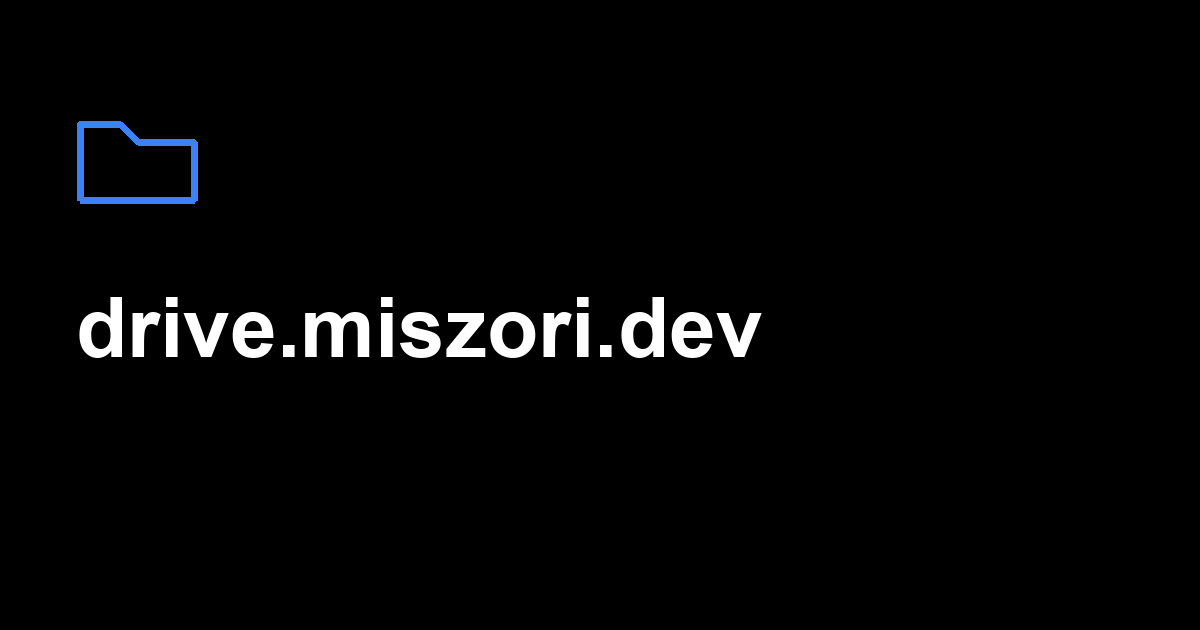
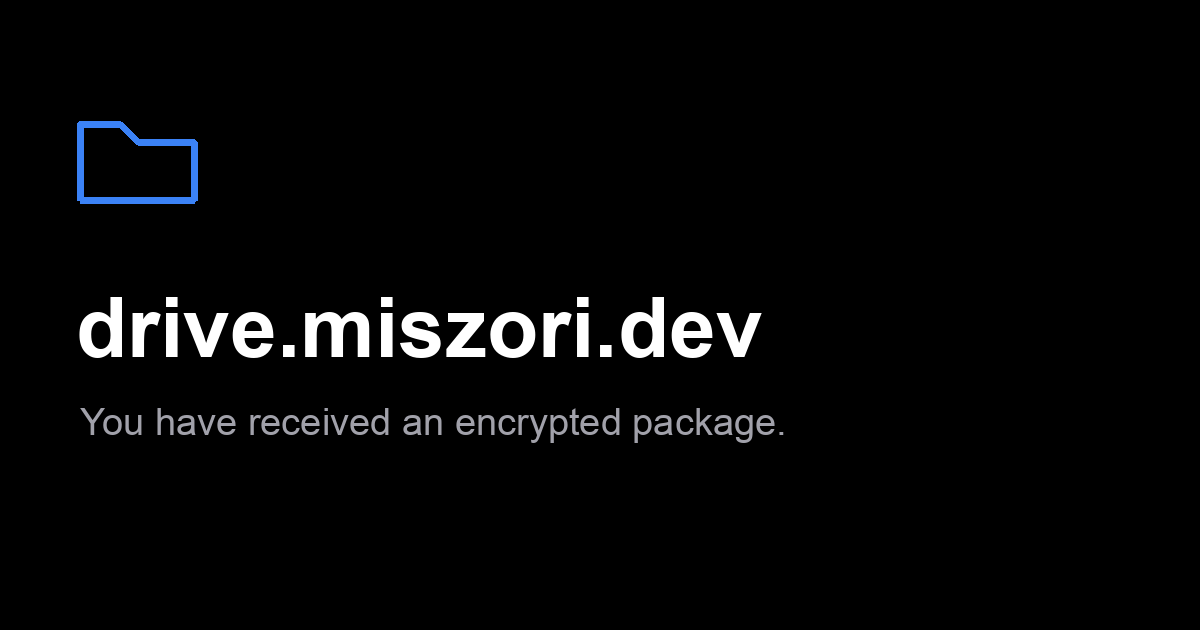
feat: restore preview message and add semantic status colors
Restore the generic encrypted-package receipt message in the share artwork and version its URL for fresh previews. Add accessible green Ready and red Unavailable states plus red one-time-download warnings, while keeping black surfaces and blue controls.

Shorten the missing-key message and cover color transitions, expiry, warning styles, preview metadata, and copy with regression tests.

Changed region(s): [[0.0617, 0.6333, 0.6475, 0.6937]]

diff --git a/web/public.js b/web/public.js
@@ -26,6 +26,13 @@ function updateButton() {
   $('download-button').disabled = !available || busy || !$('download-consent').checked;
 }
 
+function packageState(label) {
+  const element = $('package-state');
+  element.textContent = label;
+  element.classList.toggle('status-ready', label === 'Ready');
+  element.classList.toggle('status-unavailable', label === 'Unavailable');
+}
+
 function progress(bytes, total) {
   const percent = total ? Math.floor(bytes / total * 100) : 100;
   $('download-meter').value = percent;
@@ -60,6 +67,7 @@ async function download() {
   if (!available || busy || !$('download-consent').checked) return;
   if (Date.now() >= expiresAt) {
     available = false;
+    packageState('Unavailable');
     updateButton();
     status('This package has expired. Ask the sender for a new link.', true);
     return;
@@ -110,6 +118,7 @@ async function download() {
       : 'Keep this tab open. Starting this transfer cannot be undone.');
     consumed = true;
     available = false;
+    packageState('Downloading');
     const response = await fetch(`/api/packages/${encodeURIComponent(id)}/consume`, {
       method: 'POST', signal: controller.signal, credentials: 'omit', cache: 'no-store', referrerPolicy: 'no-referrer'
     });
@@ -147,7 +156,7 @@ async function download() {
     await archive.close();
     progress(bytes, bytes);
     $('download-stage').textContent = 'Decrypted & saved';
-    $('package-state').textContent = 'Downloaded';
+    packageState('Downloaded');
     $('package-title').textContent = 'Package downloaded';
     $('package-description').textContent = 'Your files are in the ZIP archive. The server copy has been destroyed.';
     $('availability').textContent = 'Claimed — no longer on the server';
@@ -163,7 +172,7 @@ async function download() {
       ? `${aborted ? 'Transfer cancelled.' : error.message} This transfer cannot be resumed. Ask the sender for a new package.`
       : aborted ? 'Save cancelled. Your package has not been claimed.' : `Could not prepare a save destination. ${error.message} Your package has not been claimed.`, !aborted || consumed);
     if (consumed) {
-      $('package-state').textContent = 'Unavailable';
+      packageState('Unavailable');
       $('availability').textContent = 'Claimed or unavailable';
       $('download-stage').textContent = 'Transfer stopped — not recoverable';
       keyBytes?.fill(0);
@@ -197,7 +206,7 @@ async function initialize() {
   $('package-card').hidden = false;
   blobFallbackOffered = !supportsLocalStreaming;
   $('fallback-warning').hidden = supportsStreaming || supportsLocalStreaming;
-  $('package-state').textContent = 'Checking';
+  packageState('Checking');
   $('package-title').textContent = 'Download package';
   $('package-description').textContent = 'Checking availability. Opening this page does not start a download.';
   $('availability').textContent = 'Checking…';
@@ -223,7 +232,7 @@ async function initialize() {
     expiresAt = Date.parse(info.expiresAt);
     if (info.status !== 'ready' || !Number.isFinite(expiresAt) || expiresAt <= Date.now()) throw new Error('This package is not available. Ask the sender for a new link.');
     available = true;
-    $('package-state').textContent = 'Ready';
+    packageState('Ready');
     $('availability').textContent = `Until ${new Date(expiresAt).toLocaleString()}`;
     $('package-description').textContent = 'Ready to download. File names and sizes are encrypted until you start.';
     status('Nothing is downloaded or destroyed until you press the button.');
@@ -232,7 +241,7 @@ async function initialize() {
     fragment = '';
     keyBytes?.fill(0);
     keyBytes = null;
-    $('package-state').textContent = 'Unavailable';
+    packageState('Unavailable');
     $('package-title').textContent = 'Package unavailable';
     $('package-description').textContent = 'Checking availability does not start a download.';
     $('availability').textContent = 'Unavailable';

diff --git a/web/index.html b/web/index.html
@@ -12,16 +12,16 @@
   <meta property="og:site_name" content="drive.miszori.dev">
   <meta property="og:title" content="drive.miszori.dev">
   <meta property="og:description" content="">
-  <meta property="og:image" content='{{env "PUBLIC_ORIGIN"}}/share-preview.png?v=2'>
+  <meta property="og:image" content='{{env "PUBLIC_ORIGIN"}}/share-preview.png?v=3'>
   <meta property="og:image:type" content="image/png">
   <meta property="og:image:width" content="1200">
   <meta property="og:image:height" content="630">
-  <meta property="og:image:alt" content="drive.miszori.dev">
+  <meta property="og:image:alt" content="drive.miszori.dev — You have received an encrypted package.">
   <meta name="twitter:card" content="summary_large_image">
   <meta name="twitter:title" content="drive.miszori.dev">
   <meta name="twitter:description" content="">
-  <meta name="twitter:image" content='{{env "PUBLIC_ORIGIN"}}/share-preview.png?v=2'>
-  <meta name="twitter:image:alt" content="drive.miszori.dev">
+  <meta name="twitter:image" content='{{env "PUBLIC_ORIGIN"}}/share-preview.png?v=3'>
+  <meta name="twitter:image:alt" content="drive.miszori.dev — You have received an encrypted package.">
   <link rel="stylesheet" href="/styles.css">
   <script type="module" src="/public.js"></script>
 </head>
@@ -38,7 +38,7 @@
         <div class="panel-heading"><h1 id="package-title">Download package</h1><span id="package-state" class="package-state">Checking</span></div>
         <p id="package-description">Checking availability. Opening this page does not start a download.</p>
         <dl class="package-facts"><div><dt>Available</dt><dd id="availability">Checking…</dd></div><div><dt>Format</dt><dd>ZIP archive</dd></div></dl>
-        <div id="download-warning" class="notice warning"><strong>One-time download</strong><p>Starting the transfer claims and destroys the server copy, even if the download fails or is cancelled. It cannot be resumed; ask the sender for a new package.</p></div>
+        <div id="download-warning" class="notice warning one-time-warning"><strong>One-time download</strong><p>Starting the transfer claims and destroys the server copy, even if the download fails or is cancelled. It cannot be resumed; ask the sender for a new package.</p></div>
         <div id="fallback-warning" class="notice warning" hidden><strong>128 MiB browser limit</strong><p>This browser can save ZIP archives up to 128 MiB, including archive overhead. The encrypted size is unknown until you start and claim the one-time download. A larger package will be lost. For large or unknown sizes, use desktop Chrome or Edge with “Save As” support.</p></div>
         <label id="consent-label" class="check-row"><input id="download-consent" type="checkbox"><span>I understand this download cannot be repeated, even if it fails or I cancel.</span></label>
         <button id="download-button" class="button primary full-width" type="button" disabled>Download and destroy</button>

diff --git a/web/admin.html b/web/admin.html
@@ -39,7 +39,7 @@
         <div class="field-row"><div><label for="ttl">Expires after</label><select id="ttl"><option value="3600">1 hour</option><option value="86400" selected>24 hours</option><option value="259200">3 days</option><option value="604800">7 days</option><option value="2592000">30 days</option><option value="custom">Custom duration</option></select></div><div id="custom-ttl-field" hidden><label for="custom-ttl">Minutes (1–43,200)</label><input id="custom-ttl" type="number" min="1" max="43200" step="1" value="60"></div></div>
         <p class="fine-print">Expiry starts at package creation and includes upload time.</p>
         <div class="field-row"><div><label for="package-name">Package name (optional)</label><input id="package-name" type="text" autocomplete="off" spellcheck="false" disabled><p class="fine-print">Up to 120 characters. Never included in the share link or download.</p></div></div>
-        <div class="notice warning"><p>One-time download: starting a transfer destroys the server copy, even if it fails or is cancelled. Large downloads require browser streaming support; without it, ZIP archives are limited to 128 MiB. Recipients must keep the download tab open.</p></div>
+        <div class="notice warning one-time-warning"><p>One-time download: starting a transfer destroys the server copy, even if it fails or is cancelled. Large downloads require browser streaming support; without it, ZIP archives are limited to 128 MiB. Recipients must keep the download tab open.</p></div>
         <button id="upload-button" class="button primary full-width" type="button" disabled>Encrypt and create link</button>
         <div id="upload-progress" class="progress-area" hidden><div class="progress-copy"><span id="upload-stage">Preparing…</span><span id="upload-percent">0%</span></div><progress id="upload-meter" value="0" max="100" aria-label="Upload progress"></progress><button id="abort-upload" class="text-button danger" type="button">Cancel and delete upload</button></div>
         <p id="upload-status" class="status-message" role="status" aria-live="polite"></p>

diff --git a/web/styles.css b/web/styles.css
@@ -10,9 +10,9 @@
   --blue: #2563eb;
   --blue-hover: #1d4ed8;
   --focus: #93c5fd;
-  --danger: #fff;
+  --danger: #f87171;
   --warning: #aaa;
-  --success: #aaa;
+  --success: #4ade80;
   font-family: -apple-system, BlinkMacSystemFont, "Segoe UI", sans-serif;
   color: var(--text);
   background: var(--background);
@@ -84,6 +84,8 @@ dd { margin: 0; overflow-wrap: anywhere; }
 .notice strong { color: var(--warning); }
 .notice p { margin: 6px 0 0; }
 .notice p:first-child { margin-top: 0; }
+.notice.one-time-warning { border-color: var(--danger); color: var(--danger); }
+.notice.one-time-warning strong { color: var(--danger); }
 .check-row { display: flex; align-items: flex-start; gap: 12px; margin: 20px 0; font-size: 14px; cursor: pointer; }
 .progress-area { margin-top: 20px; }
 .progress-copy { display: flex; justify-content: space-between; gap: 16px; margin-bottom: 8px; font-size: 13px; }
@@ -119,7 +121,7 @@ td { min-width: 100px; }
 .status-ready { color: var(--success); }
 .status-uploading, .status-consuming { color: var(--focus); }
 .status-consumed, .status-expired, .status-deleted, .status-unknown { color: var(--muted); }
-.status-failed { color: var(--danger); }
+.status-failed, .status-unavailable { color: var(--danger); }
 .empty-state { margin-top: 18px; color: var(--muted); }
 .empty-state p { margin-bottom: 0; }
 dialog { width: min(440px, calc(100% - 32px)); max-height: calc(100% - 32px); overflow: auto; padding: 24px; color: var(--text); background: var(--surface); border: 1px solid var(--line); border-radius: 10px; }

diff --git a/web/crypto.js b/web/crypto.js
@@ -10,7 +10,7 @@ export function encodeKey(bytes) {
 }
 
 export function decodeKey(value) {
-  if (!/^[A-Za-z0-9_-]{43}$/.test(value)) throw new Error('This link is missing a valid decryption key. Ask the sender for the complete link.');
+  if (!/^[A-Za-z0-9_-]{43}$/.test(value)) throw new Error('This link is missing a valid decryption key.');
   const bytes = Uint8Array.from(atob(value.replaceAll('-', '+').replaceAll('_', '/') + '='), c => c.charCodeAt(0));
   if (bytes.length !== 32 || encodeKey(bytes) !== value) throw new Error('The link’s decryption key is invalid.');
   return bytes;

diff --git a/tools/generate-preview.py b/tools/generate-preview.py
@@ -19,4 +19,5 @@ draw = ImageDraw.Draw(image)
 blue = "#3b82f6"
 draw.line([(80, 200), (80, 124), (120, 124), (138, 142), (194, 142), (194, 200), (80, 200)], fill=blue, width=7, joint="curve")
 draw.text((76, 280), "drive.miszori.dev", font=font(84, bold=True), fill="#ffffff")
+draw.text((80, 400), "You have received an encrypted package.", font=font(38), fill="#a1a1aa")
 image.save(Path(__file__).resolve().parents[1] / "web" / "share-preview.png", optimize=True)

diff --git a/README.md b/README.md
@@ -1,6 +1,6 @@
 # drive.miszori.dev
 
-Private, client-encrypted, one-time file packages. Both pages use a minimal black interface with blue accents, branded `drive.miszori.dev`. Docker runs a small Go API and Caddy; the browser encrypts/decrypts with WebCrypto. No JavaScript frameworks, third-party scripts, analytics, database service, or build step for the web pages.
+Private, client-encrypted, one-time file packages. Both pages use a minimal black interface with blue controls, green Ready states, and red Unavailable/destructive-download warnings, branded `drive.miszori.dev`. Docker runs a small Go API and Caddy; the browser encrypts/decrypts with WebCrypto. No JavaScript frameworks, third-party scripts, analytics, database service, or build step for the web pages.
 
 ## What it does
 
@@ -90,7 +90,7 @@ Browser and device details are inferred **only when a package is explicitly clai
 
 ### Messaging previews
 
-Public package HTML contains server-rendered Open Graph and Twitter-card metadata with only the generic title and a 1200×630 image. Description fields are empty, and the image contains only the folder icon/title—no subtitle or divider. A versioned image URL avoids reusing the previous artwork in newly fetched cards. Cards never include names, filenames, keys, package contents, recipient audit details, or even package-specific availability. Preview bots fetch only public HTML/image; those requests cannot consume the package. An explicit recipient download is still required.
+Public package HTML contains server-rendered Open Graph and Twitter-card metadata with only the generic title and a 1200×630 image. Description fields are empty. The image contains the folder icon/title and a generic receipt message: “You have received an encrypted package.” No divider is shown. A versioned image URL avoids reusing the previous artwork in newly fetched cards. Cards never include names, filenames, keys, package contents, recipient audit details, or even package-specific availability. Preview bots fetch only public HTML/image; those requests cannot consume the package. An explicit recipient download is still required.
 
 No canonical or `og:url` replacement is emitted, so clients can retain the **original fragment-bearing link** rather than replacing it with a URL missing the decryption key. Actual preview rendering/caching depends on the messaging app; some apps disable previews or require a new message after changes. Generic artwork may remain in third-party preview caches after package deletion.
 
